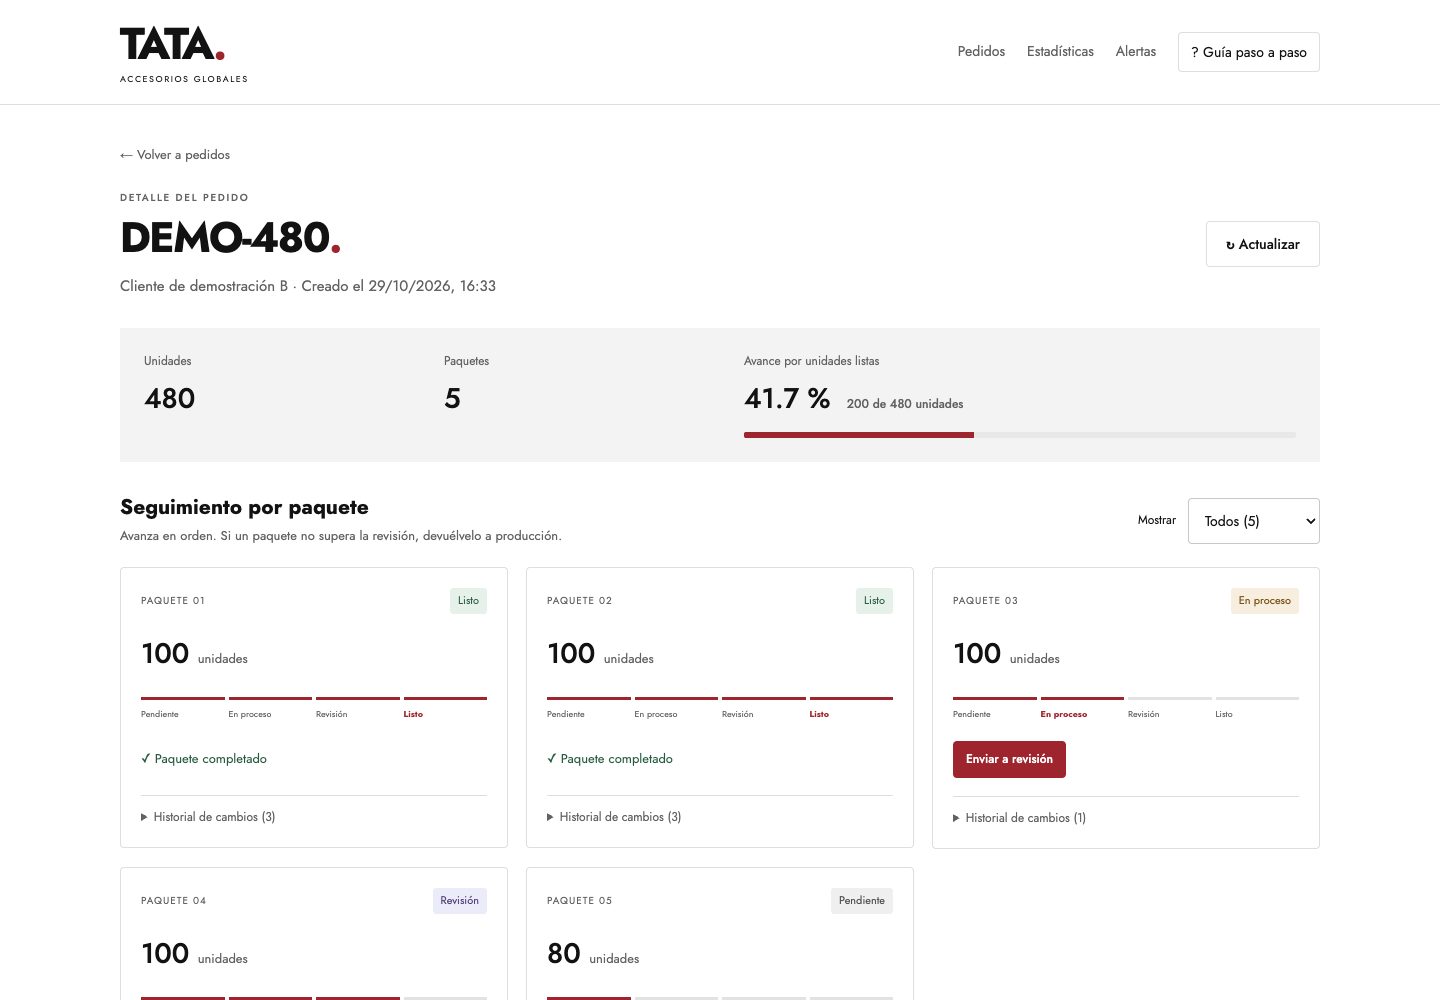
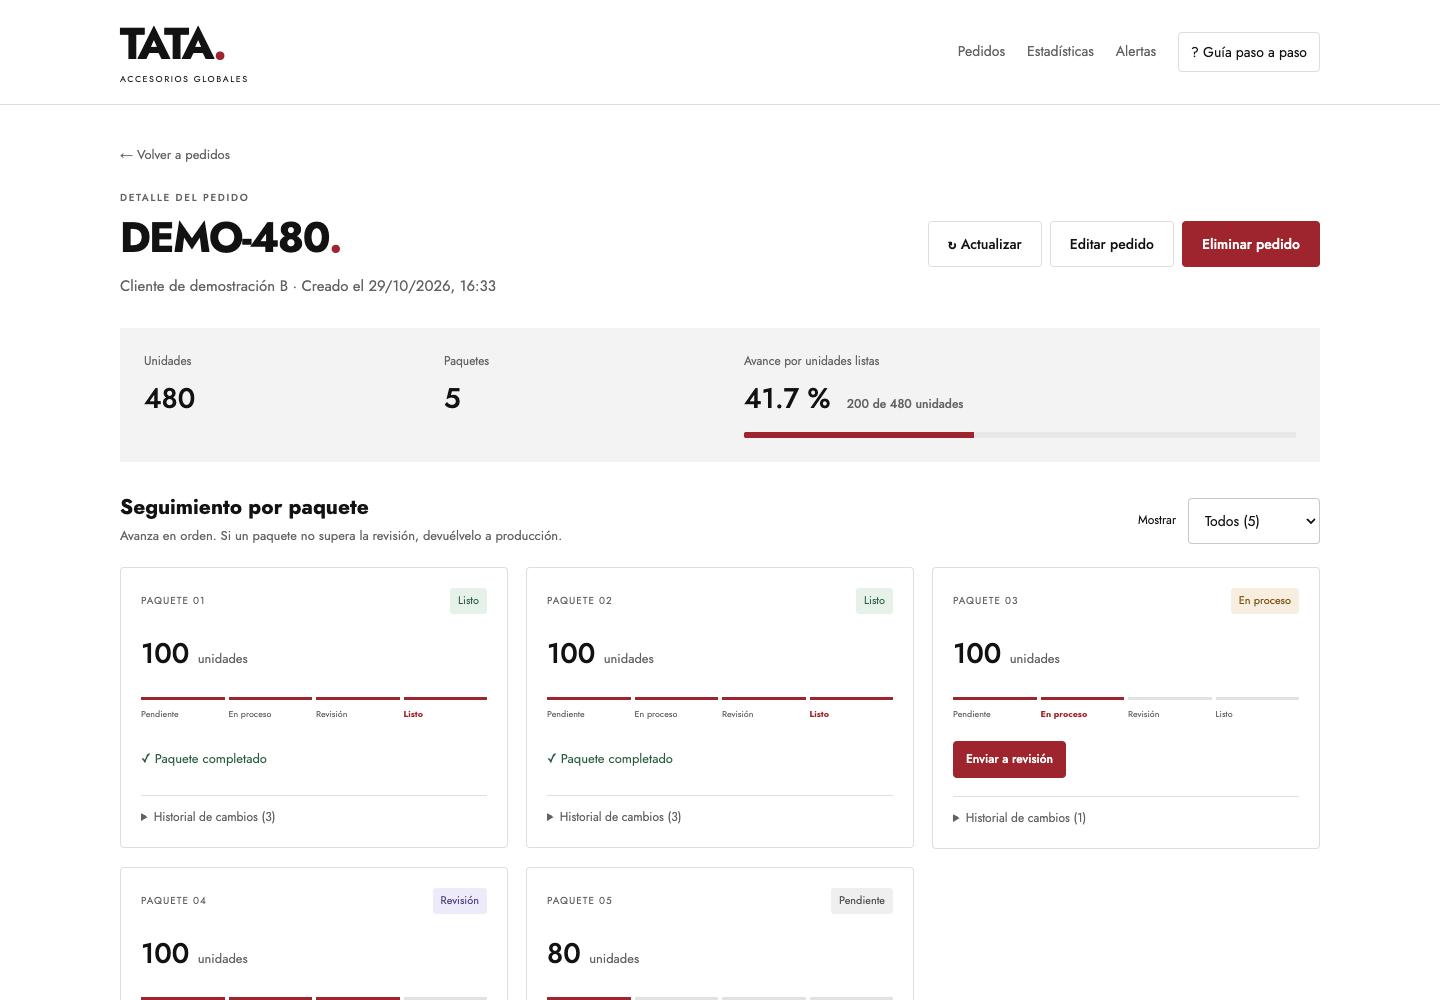
docs: verificar CRUD publicado y actualizar capturas del manual [skip render]

Changed region(s): [[0.6562, 0.217, 0.9375, 0.279]]

diff --git a/docs/manual/index.html b/docs/manual/index.html
@@ -144,10 +144,12 @@
   <tr><td>Resolver conflicto</td><td>Si otro usuario modificó el pedido, revise los datos actuales antes de repetir.</td><td>La versión del documento impide sobrescribir o eliminar cambios nuevos. El formulario ofrece recargar los datos actuales.</td></tr>
 </table>
 <p>Cancelar o cerrar los diálogos no modifica datos. Una eliminación correcta regresa al listado y muestra el resultado.</p>
+<p align="center"><img src="../capturas/manual-editar.png" alt="Formulario de edición con número, cliente, cantidad y distribución de paquetes" width="100%"><br><em>Figura 3. Edición de un pedido temporal de verificación antes de iniciar producción.</em></p>
+<p align="center"><img src="../capturas/manual-eliminar.png" alt="Confirmación de eliminación con aviso de pérdida de paquetes e historial y número escrito" width="100%"><br><em>Figura 4. Confirmación explícita de eliminación. El registro temporal de esta captura se eliminó al terminar la prueba.</em></p>
 
 <h2 id="produccion">04 · Producción por paquetes e historial</h2>
 <p>Abra <strong>Ver detalle</strong> en una fila. La cabecera presenta cliente, cantidad, paquetes y avance; debajo aparecen las tarjetas individuales.</p>
-<p align="center"><img src="../diagramas/flujo-paquetes.svg" alt="Estados de un paquete y devolución desde Revisión hacia En proceso" width="100%"><br><em>Figura 3. Ciclo permitido de producción.</em></p>
+<p align="center"><img src="../diagramas/flujo-paquetes.svg" alt="Estados de un paquete y devolución desde Revisión hacia En proceso" width="100%"><br><em>Figura 5. Ciclo permitido de producción.</em></p>
 <table>
   <tr><th>Estado actual</th><th>Acción</th><th>Nuevo estado</th></tr>
   <tr><td>Pendiente</td><td>Iniciar</td><td>En proceso</td></tr>
@@ -159,7 +161,7 @@
 <p>El motivo de rechazo es opcional y admite hasta 300 caracteres. Para consultar los movimientos, despliegue <strong>Historial de cambios</strong> en la tarjeta. Se muestran fecha, origen, destino y motivo registrado.</p>
 <blockquote><strong>Cómo leer el avance.</strong> Un pedido de 250 unidades con solo el paquete de 50 terminado tiene un avance de <strong>20 %</strong>. Completar uno de tres paquetes no implica necesariamente 33,3 %: el cálculo utiliza unidades.</blockquote>
 <p>Si otra solicitud cambia el paquete antes de guardar, la operación se rechaza por conflicto. Actualice el detalle y revise su estado antes de intentar nuevamente.</p>
-<p align="center"><img src="../capturas/manual-detalle.png" alt="Detalle de pedido con avance ponderado y tarjetas de paquetes por estado" width="100%"><br><em>Figura 4. Seguimiento individual de un pedido existente.</em></p>
+<p align="center"><img src="../capturas/manual-detalle.png" alt="Detalle de pedido con avance ponderado y tarjetas de paquetes por estado" width="100%"><br><em>Figura 6. Seguimiento individual de un pedido existente.</em></p>
 
 <h2 id="estadisticas">05 · Estadísticas e indicadores</h2>
 <p>Ingrese a <strong>Estadísticas</strong> y seleccione los últimos 7, 30 o 90 días. Los valores se calculan desde MongoDB al consultar; las capturas representan un momento de la demostración.</p>
@@ -173,7 +175,7 @@
   <tr><td>Volumen por cliente</td><td>Unidades recibidas en pedidos de la cartera; se muestran hasta ocho clientes.</td></tr>
 </table>
 <p>El gráfico compara entradas y terminaciones por día. <strong>Consultar datos diarios del gráfico</strong> ofrece una alternativa tabular. Cuando no existe una muestra para el tiempo medio, la API devuelve <code>null</code>; no se interpreta como duración cero.</p>
-<p align="center"><img src="../capturas/manual-estadisticas.png" alt="Estadísticas con selector de período, indicadores y gráfico de unidades recibidas y terminadas" width="100%"><br><em>Figura 5. Análisis de cartera y actividad del período.</em></p>
+<p align="center"><img src="../capturas/manual-estadisticas.png" alt="Estadísticas con selector de período, indicadores y gráfico de unidades recibidas y terminadas" width="100%"><br><em>Figura 7. Análisis de cartera y actividad del período.</em></p>
 
 <h2 id="alertas">06 · Alertas y resumen operativo</h2>
 <table>
@@ -196,12 +198,12 @@
   <tr><td>IA generativa · Gemini</td><td><strong>Opcional, desactivada sin clave</strong></td><td>Cliente REST implementado y probado contra simulación. No se ha verificado una llamada real a Google.</td></tr>
 </table>
 <p>La integración opcional comparte solicitudes simultáneas, conserva resultados válidos cinco minutos y limita intentos diarios por proceso. Ante cuota agotada, error, tiempo de espera o referencias inválidas, muestra el resumen por reglas. No dispone de herramientas para modificar pedidos. Consulte <a href="https://github.com/RSGarcia2002/seguimiento-pedidos/blob/main/docs/operacion.md">la configuración y los límites de la integración</a>.</p>
-<p align="center"><img src="../capturas/manual-alertas.png" alt="Alertas operativas y resumen gratuito identificado como Reglas de seguimiento" width="100%"><br><em>Figura 6. Evidencia y prioridades del seguimiento operativo.</em></p>
+<p align="center"><img src="../capturas/manual-alertas.png" alt="Alertas operativas y resumen gratuito identificado como Reglas de seguimiento" width="100%"><br><em>Figura 8. Evidencia y prioridades del seguimiento operativo.</em></p>
 
 <h2 id="manual-tecnico">07 · Manual técnico: arquitectura y tecnologías</h2>
 <h3>7.1 Organización del sistema</h3>
 <p>La solución utiliza un monorepositorio con npm workspaces. Angular implementa la presentación; Express expone operaciones HTTP; el dominio valida reglas y calcula resultados; Mongoose define documentos e índices de MongoDB. En producción, Express sirve también los archivos Angular compilados, por lo que la interfaz y la API comparten origen.</p>
-<p align="center"><img src="../diagramas/arquitectura.svg" alt="Diagrama de presentación Angular, API Express, persistencia MongoDB y Gemini opcional" width="100%"><br><em>Figura 7. Componentes y responsabilidades.</em></p>
+<p align="center"><img src="../diagramas/arquitectura.svg" alt="Diagrama de presentación Angular, API Express, persistencia MongoDB y Gemini opcional" width="100%"><br><em>Figura 9. Componentes y responsabilidades.</em></p>
 <h3>7.2 Especificaciones tecnológicas</h3>
 <p>Las versiones de paquetes corresponden a <a href="https://github.com/RSGarcia2002/seguimiento-pedidos/blob/main/package-lock.json">package-lock.json</a> en esta edición. La rama de Node requerida está definida en <a href="https://github.com/RSGarcia2002/seguimiento-pedidos/blob/main/package.json">package.json</a>; la imagen de MongoDB local está en <a href="https://github.com/RSGarcia2002/seguimiento-pedidos/blob/main/compose.yaml">compose.yaml</a>.</p>
 <table>

diff --git a/README.md b/README.md
@@ -109,10 +109,12 @@
   <tr><td>Resolver conflicto</td><td>Si otro usuario modificó el pedido, revise los datos actuales antes de repetir.</td><td>La versión del documento impide sobrescribir o eliminar cambios nuevos. El formulario ofrece recargar los datos actuales.</td></tr>
 </table>
 <p>Cancelar o cerrar los diálogos no modifica datos. Una eliminación correcta regresa al listado y muestra el resultado.</p>
+<p align="center"><img src="docs/capturas/manual-editar.png" alt="Formulario de edición con número, cliente, cantidad y distribución de paquetes" width="100%"><br><em>Figura 3. Edición de un pedido temporal de verificación antes de iniciar producción.</em></p>
+<p align="center"><img src="docs/capturas/manual-eliminar.png" alt="Confirmación de eliminación con aviso de pérdida de paquetes e historial y número escrito" width="100%"><br><em>Figura 4. Confirmación explícita de eliminación. El registro temporal de esta captura se eliminó al terminar la prueba.</em></p>
 
 <h2 id="produccion">04 · Producción por paquetes e historial</h2>
 <p>Abra <strong>Ver detalle</strong> en una fila. La cabecera presenta cliente, cantidad, paquetes y avance; debajo aparecen las tarjetas individuales.</p>
-<p align="center"><img src="docs/diagramas/flujo-paquetes.svg" alt="Estados de un paquete y devolución desde Revisión hacia En proceso" width="100%"><br><em>Figura 3. Ciclo permitido de producción.</em></p>
+<p align="center"><img src="docs/diagramas/flujo-paquetes.svg" alt="Estados de un paquete y devolución desde Revisión hacia En proceso" width="100%"><br><em>Figura 5. Ciclo permitido de producción.</em></p>
 <table>
   <tr><th>Estado actual</th><th>Acción</th><th>Nuevo estado</th></tr>
   <tr><td>Pendiente</td><td>Iniciar</td><td>En proceso</td></tr>
@@ -124,7 +126,7 @@
 <p>El motivo de rechazo es opcional y admite hasta 300 caracteres. Para consultar los movimientos, despliegue <strong>Historial de cambios</strong> en la tarjeta. Se muestran fecha, origen, destino y motivo registrado.</p>
 <blockquote><strong>Cómo leer el avance.</strong> Un pedido de 250 unidades con solo el paquete de 50 terminado tiene un avance de <strong>20 %</strong>. Completar uno de tres paquetes no implica necesariamente 33,3 %: el cálculo utiliza unidades.</blockquote>
 <p>Si otra solicitud cambia el paquete antes de guardar, la operación se rechaza por conflicto. Actualice el detalle y revise su estado antes de intentar nuevamente.</p>
-<p align="center"><img src="docs/capturas/manual-detalle.png" alt="Detalle de pedido con avance ponderado y tarjetas de paquetes por estado" width="100%"><br><em>Figura 4. Seguimiento individual de un pedido existente.</em></p>
+<p align="center"><img src="docs/capturas/manual-detalle.png" alt="Detalle de pedido con avance ponderado y tarjetas de paquetes por estado" width="100%"><br><em>Figura 6. Seguimiento individual de un pedido existente.</em></p>
 
 <h2 id="estadisticas">05 · Estadísticas e indicadores</h2>
 <p>Ingrese a <strong>Estadísticas</strong> y seleccione los últimos 7, 30 o 90 días. Los valores se calculan desde MongoDB al consultar; las capturas representan un momento de la demostración.</p>
@@ -138,7 +140,7 @@
   <tr><td>Volumen por cliente</td><td>Unidades recibidas en pedidos de la cartera; se muestran hasta ocho clientes.</td></tr>
 </table>
 <p>El gráfico compara entradas y terminaciones por día. <strong>Consultar datos diarios del gráfico</strong> ofrece una alternativa tabular. Cuando no existe una muestra para el tiempo medio, la API devuelve <code>null</code>; no se interpreta como duración cero.</p>
-<p align="center"><img src="docs/capturas/manual-estadisticas.png" alt="Estadísticas con selector de período, indicadores y gráfico de unidades recibidas y terminadas" width="100%"><br><em>Figura 5. Análisis de cartera y actividad del período.</em></p>
+<p align="center"><img src="docs/capturas/manual-estadisticas.png" alt="Estadísticas con selector de período, indicadores y gráfico de unidades recibidas y terminadas" width="100%"><br><em>Figura 7. Análisis de cartera y actividad del período.</em></p>
 
 <h2 id="alertas">06 · Alertas y resumen operativo</h2>
 <table>
@@ -161,12 +163,12 @@
   <tr><td>IA generativa · Gemini</td><td><strong>Opcional, desactivada sin clave</strong></td><td>Cliente REST implementado y probado contra simulación. No se ha verificado una llamada real a Google.</td></tr>
 </table>
 <p>La integración opcional comparte solicitudes simultáneas, conserva resultados válidos cinco minutos y limita intentos diarios por proceso. Ante cuota agotada, error, tiempo de espera o referencias inválidas, muestra el resumen por reglas. No dispone de herramientas para modificar pedidos. Consulte <a href="docs/operacion.md">la configuración y los límites de la integración</a>.</p>
-<p align="center"><img src="docs/capturas/manual-alertas.png" alt="Alertas operativas y resumen gratuito identificado como Reglas de seguimiento" width="100%"><br><em>Figura 6. Evidencia y prioridades del seguimiento operativo.</em></p>
+<p align="center"><img src="docs/capturas/manual-alertas.png" alt="Alertas operativas y resumen gratuito identificado como Reglas de seguimiento" width="100%"><br><em>Figura 8. Evidencia y prioridades del seguimiento operativo.</em></p>
 
 <h2 id="manual-tecnico">07 · Manual técnico: arquitectura y tecnologías</h2>
 <h3>7.1 Organización del sistema</h3>
 <p>La solución utiliza un monorepositorio con npm workspaces. Angular implementa la presentación; Express expone operaciones HTTP; el dominio valida reglas y calcula resultados; Mongoose define documentos e índices de MongoDB. En producción, Express sirve también los archivos Angular compilados, por lo que la interfaz y la API comparten origen.</p>
-<p align="center"><img src="docs/diagramas/arquitectura.svg" alt="Diagrama de presentación Angular, API Express, persistencia MongoDB y Gemini opcional" width="100%"><br><em>Figura 7. Componentes y responsabilidades.</em></p>
+<p align="center"><img src="docs/diagramas/arquitectura.svg" alt="Diagrama de presentación Angular, API Express, persistencia MongoDB y Gemini opcional" width="100%"><br><em>Figura 9. Componentes y responsabilidades.</em></p>
 <h3>7.2 Especificaciones tecnológicas</h3>
 <p>Las versiones de paquetes corresponden a <a href="package-lock.json">package-lock.json</a> en esta edición. La rama de Node requerida está definida en <a href="package.json">package.json</a>; la imagen de MongoDB local está en <a href="compose.yaml">compose.yaml</a>.</p>
 <table>

diff --git a/docs/agent-log.md b/docs/agent-log.md
@@ -144,3 +144,9 @@ paginados y ausencia de errores de consola o desbordamientos en 1440/390/320px.
 - La prueba de interfaz detectó que se perdía el aviso tras navegar; se corrigió con
   un servicio de avisos de un solo consumo. Compilación final sin avisos de presupuesto.
 - Manual HTML, README y recorrido guiado actualizados con las operaciones del CRUD.
+- Despliegue dep-dbhu8mmq1p3s73fraq1g confirmado live en versión 28b7333.
+  Desde la aplicación pública se creó un pedido temporal, se editó a 350 unidades,
+  se comprobaron cuatro paquetes, persistencia, bloqueo de cantidad tras iniciar,
+  confirmación y eliminación con GET posterior 404. Sin errores del navegador.
+  El registro temporal se eliminó; los pedidos existentes se conservaron.
+- Capturas actualizadas de detalle, edición y eliminación incorporadas al manual.
